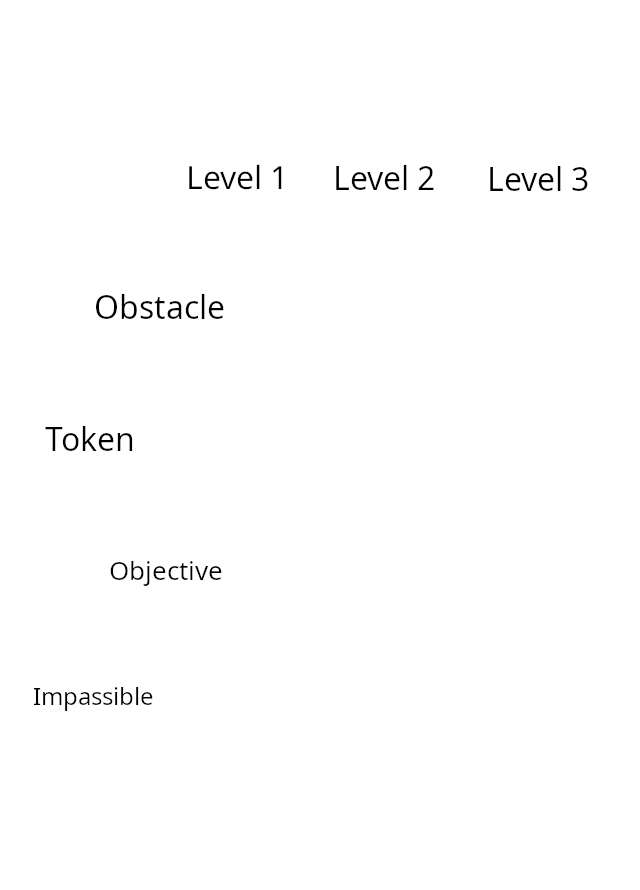
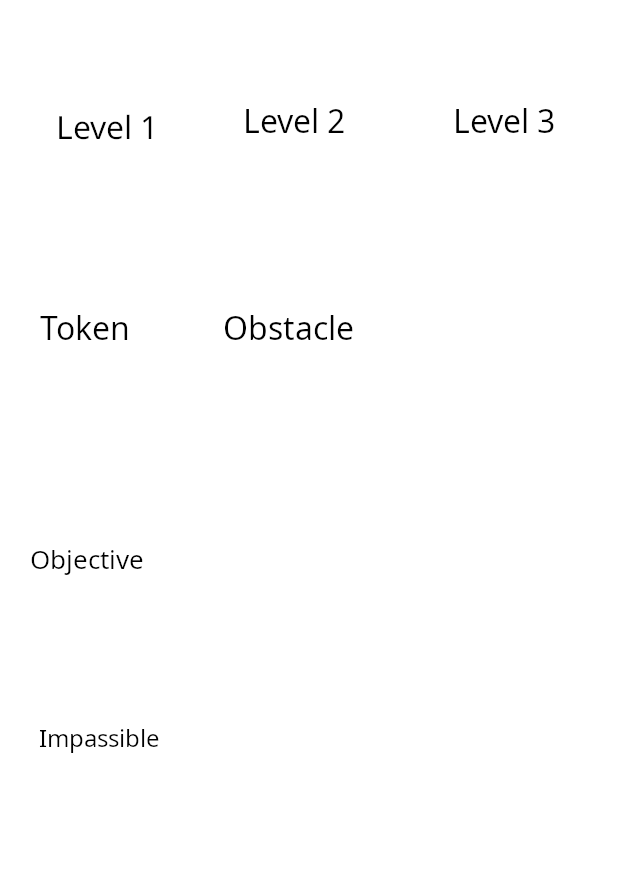
updated terrain

diff --git a/generate_card_sheet.py b/generate_card_sheet.py
@@ -91,8 +91,8 @@ FINAL_CELL = r"""\hbox to {width}cm{{\hss
     \vspace{{0pt}}%
     \begin{{tikzpicture}}[backbox/.style= {{rectangle, minimum height = 8.9cm, minimum width =6.35cm, rounded corners = 0.3cm, fill=white, opacity=0.75}}]
     \node [rectangle, minimum width = 6.4cm, minimum height = 8.7cm, fill=black!70!white!30] at (3.25,4.5){{}};
-    \draw[<->, line width=12pt, draw={color}] (0.4,0.5) -- (6.0, 8.4);
-    \draw[<->, line width=12pt, draw={color}] (6.0,0.5) -- (0.4, 8.4);
+    \draw[<->, line width=12pt, draw={color}] (0.6,0.5) -- (5.8, 8.4);
+    \draw[<->, line width=12pt, draw={color}] (5.8,0.5) -- (0.6, 8.4);
     \node [rectangle, draw, rounded corners = 0.4cm, minimum width = 5cm, minimum height=2cm, fill=blue!10] at (3.25,4.5) {{}};
     \node [circle, draw, minimum width = 3.4cm, fill=blue!10] at (3.25,4.5) {{\Large{{{text}}}}};
     \end{{tikzpicture}}
